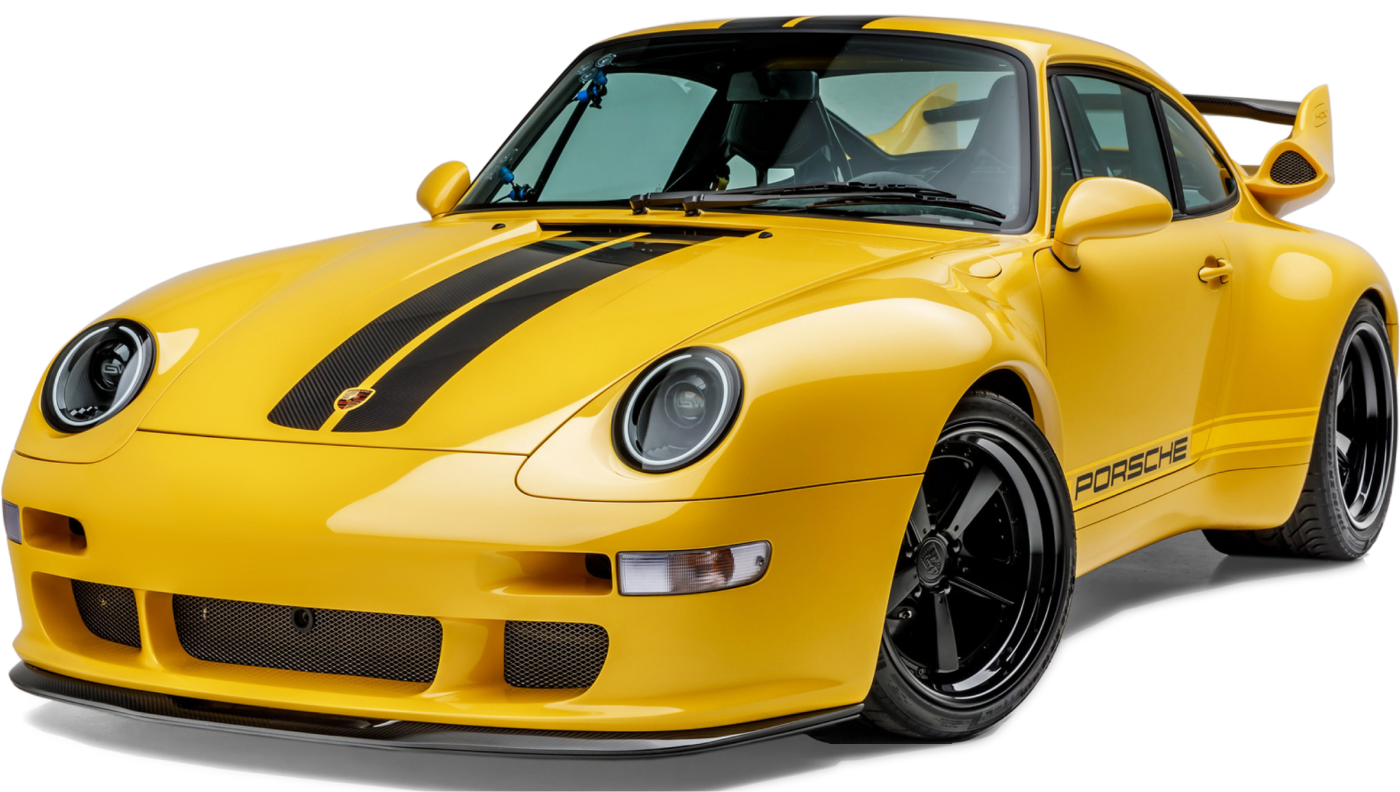
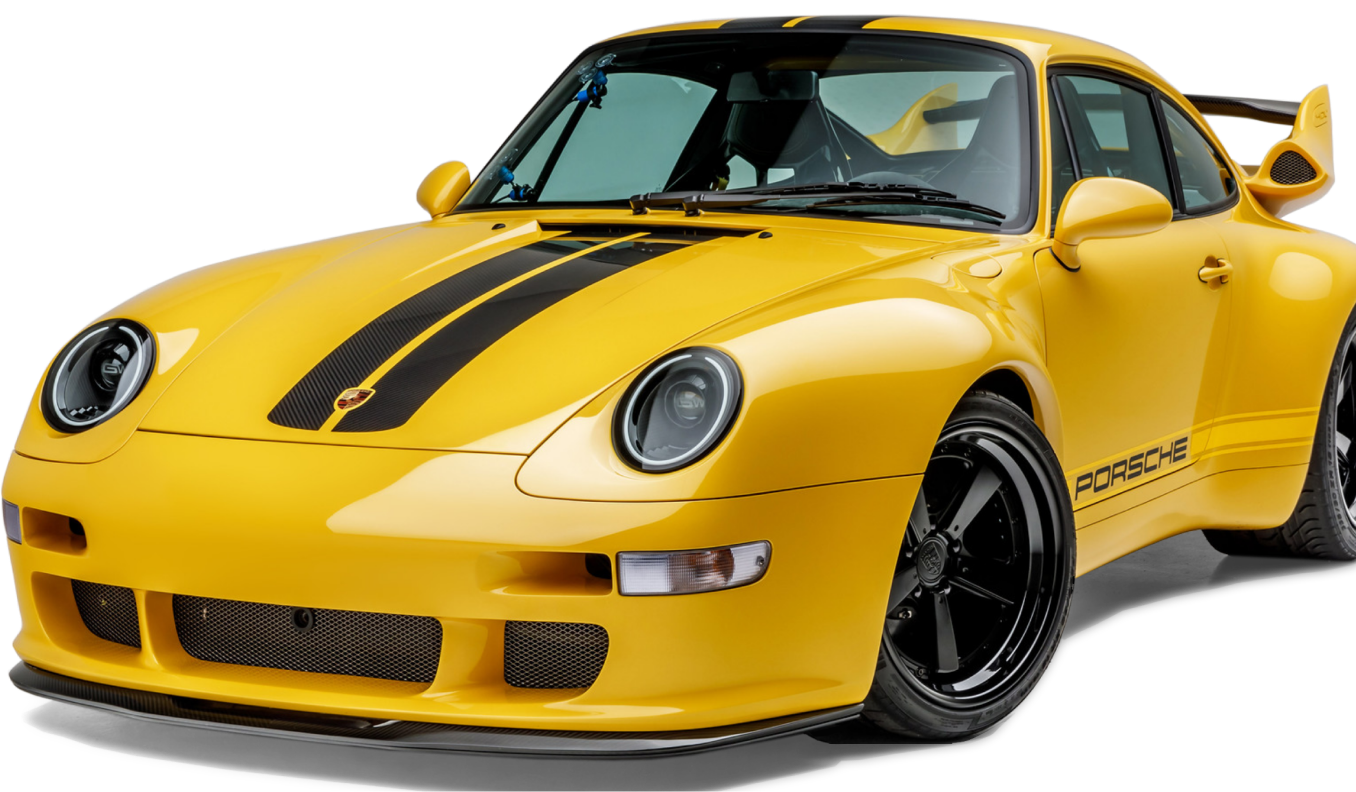
.

diff --git a/scripts/pages/Home/Home.js b/scripts/pages/Home/Home.js
@@ -69,6 +69,15 @@ export class HomePage extends LitElement {
         filter: url('#blur');
       }
 
+      @media (min-width:45em) {
+
+        .c-hero-frame__image {
+          max-width: none;
+          width: 110%;
+        }
+
+      }
+
       .c-hero-frame__text {
         color: var(--color-subtle-dark-3);
       }
